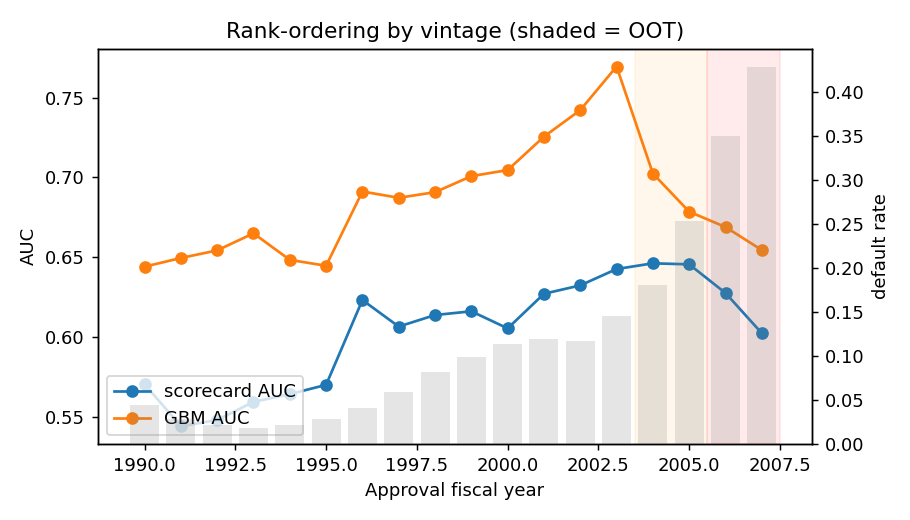
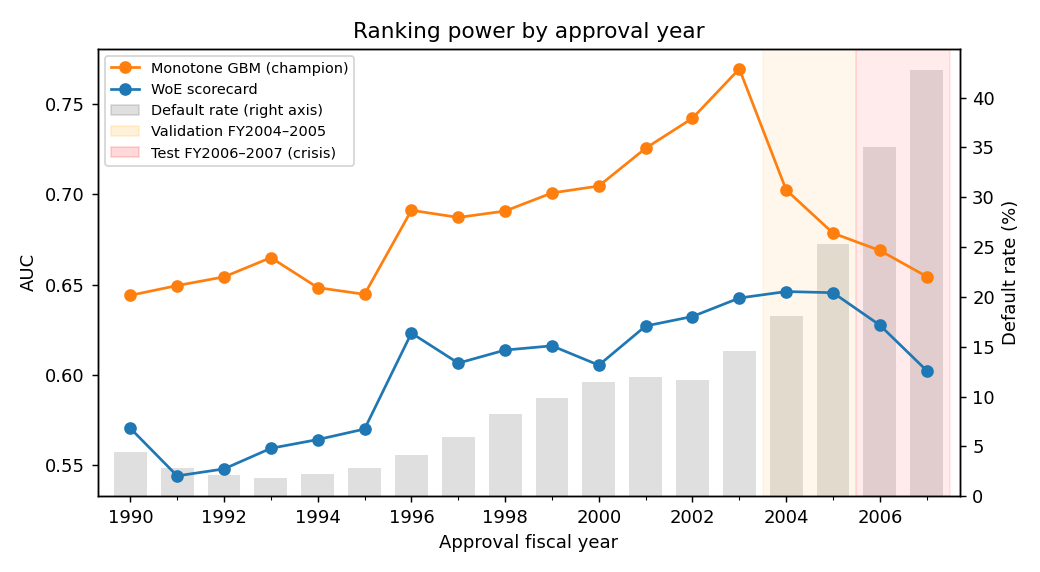
Vintage chart: integer year axis and clearer legend

Changed region(s): [[0.0, 0.0308, 0.9846, 0.9846], [0.3692, 0.5846, 0.4308, 0.6769]]

diff --git a/src/smbcredit/pipeline.py b/src/smbcredit/pipeline.py
@@ -24,6 +24,29 @@ def _save(fig, name):
     fig.tight_layout(); fig.savefig(FIG / name, dpi=130); plt.close(fig)
 
 
+def plot_auc_by_vintage(by_fy: pd.DataFrame, splits: dict, path, dpi: int = 130) -> None:
+    """AUC by approval fiscal year (integer year ticks) with default-rate bars and shaded holdout periods."""
+    from matplotlib.patches import Patch
+    from matplotlib.ticker import MultipleLocator
+    fig, ax = plt.subplots(figsize=(8, 4.4))
+    ax2 = ax.twinx()
+    ax2.bar(by_fy.fy, by_fy.default_rate * 100, width=.7, alpha=.25, color="grey")
+    ax2.set_ylabel("Default rate (%)")
+    ax.set_zorder(ax2.get_zorder() + 1); ax.patch.set_visible(False)
+    shade = [("valid", "orange", "Validation FY{0}–{1}"), ("test", "red", "Test FY{0}–{1} (crisis)")]
+    for k, c, _ in shade:
+        ax.axvspan(splits[k][0] - .5, splits[k][1] + .5, color=c, alpha=.08)
+    l1, = ax.plot(by_fy.fy, by_fy.auc_gbm, "o-", color="tab:orange", label="Monotone GBM (champion)")
+    l2, = ax.plot(by_fy.fy, by_fy.auc_scorecard, "o-", color="tab:blue", label="WoE scorecard")
+    ax.xaxis.set_major_locator(MultipleLocator(2)); ax.xaxis.set_minor_locator(MultipleLocator(1))
+    ax.set_xlim(by_fy.fy.min() - .7, by_fy.fy.max() + .7)
+    ax.set(xlabel="Approval fiscal year", ylabel="AUC", title="Ranking power by approval year")
+    handles = [l1, l2, Patch(color="grey", alpha=.25, label="Default rate (right axis)")]
+    handles += [Patch(color=c, alpha=.15, label=lab.format(*splits[k])) for k, c, lab in shade]
+    ax.legend(handles=handles, loc="upper left", fontsize=8, frameon=True)
+    fig.tight_layout(); fig.savefig(path, dpi=dpi); plt.close(fig)
+
+
 def leakage_check(cfg, tr, va, te) -> dict:
     """Train the same GBM with the leaky `term_months` added, and tabulate default rate by exact term."""
     import lightgbm as lgb
@@ -178,14 +201,7 @@ def main():
     ax.set(xlabel="Predicted PD (decile mean)", ylabel="Observed default rate", title="Calibration — OOT test")
     ax.legend(); _save(fig, "calibration_test.png")
 
-    fig, ax = plt.subplots(figsize=(7, 4))
-    ax.plot(by_fy.fy, by_fy.auc_scorecard, "o-", label="scorecard AUC")
-    ax.plot(by_fy.fy, by_fy.auc_gbm, "o-", label="GBM AUC")
-    ax2 = ax.twinx(); ax2.bar(by_fy.fy, by_fy.default_rate, alpha=.2, color="grey"); ax2.set_ylabel("default rate")
-    for k, c in [("valid", "orange"), ("test", "red")]:
-        ax.axvspan(cfg["split"][k][0] - .5, cfg["split"][k][1] + .5, color=c, alpha=.08)
-    ax.set(xlabel="Approval fiscal year", ylabel="AUC", title="Rank-ordering by vintage (shaded = OOT)")
-    ax.legend(loc="lower left"); _save(fig, "auc_by_vintage.png")
+    plot_auc_by_vintage(by_fy, cfg["split"], FIG / "auc_by_vintage.png")
 
     fig, ax = plt.subplots(figsize=(6, 4))
     imp.head(15)[::-1].plot.barh(ax=ax); ax.set(title="GBM global importance (mean |SHAP|, log-odds)")
